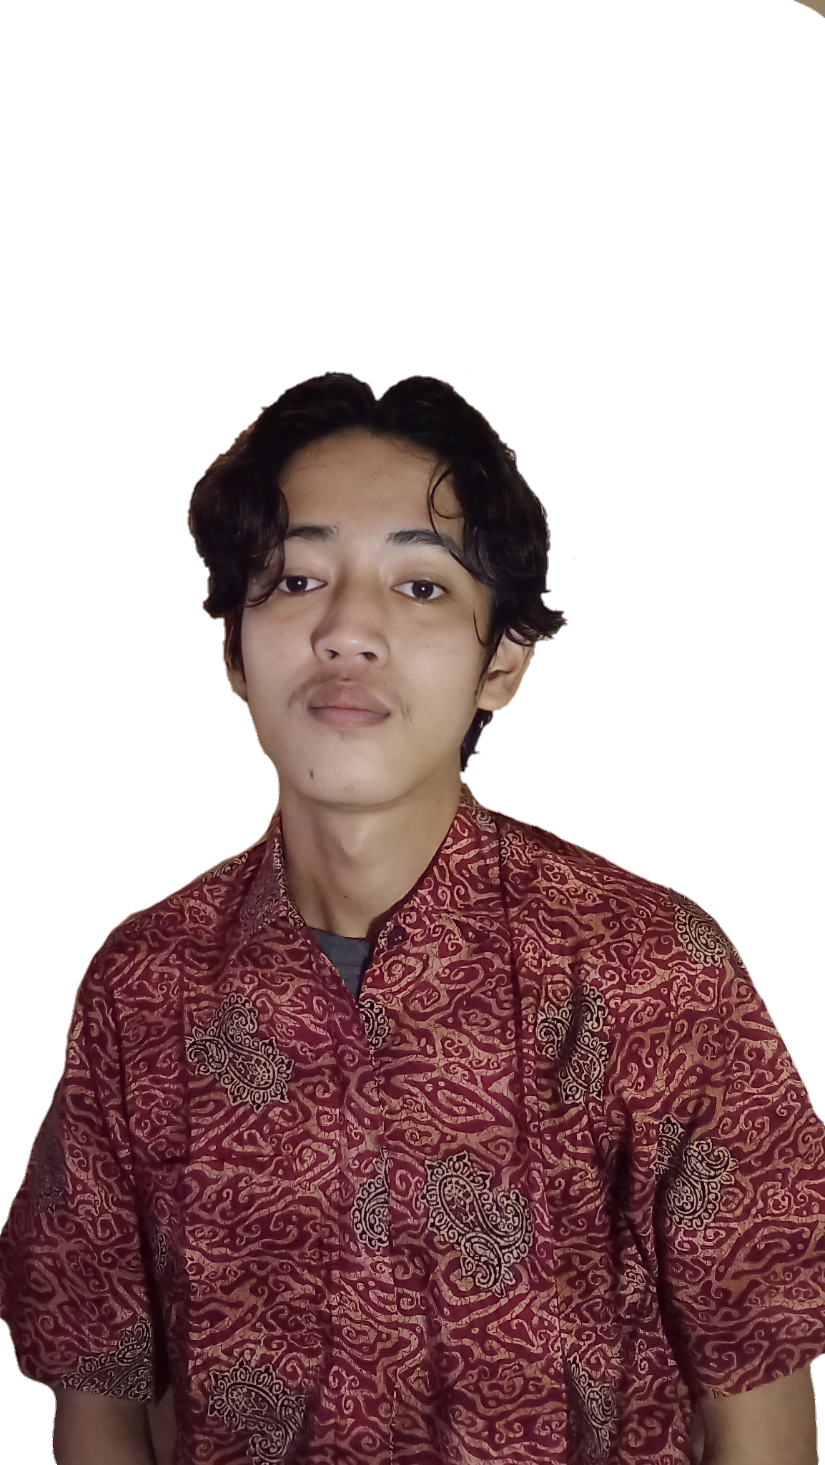
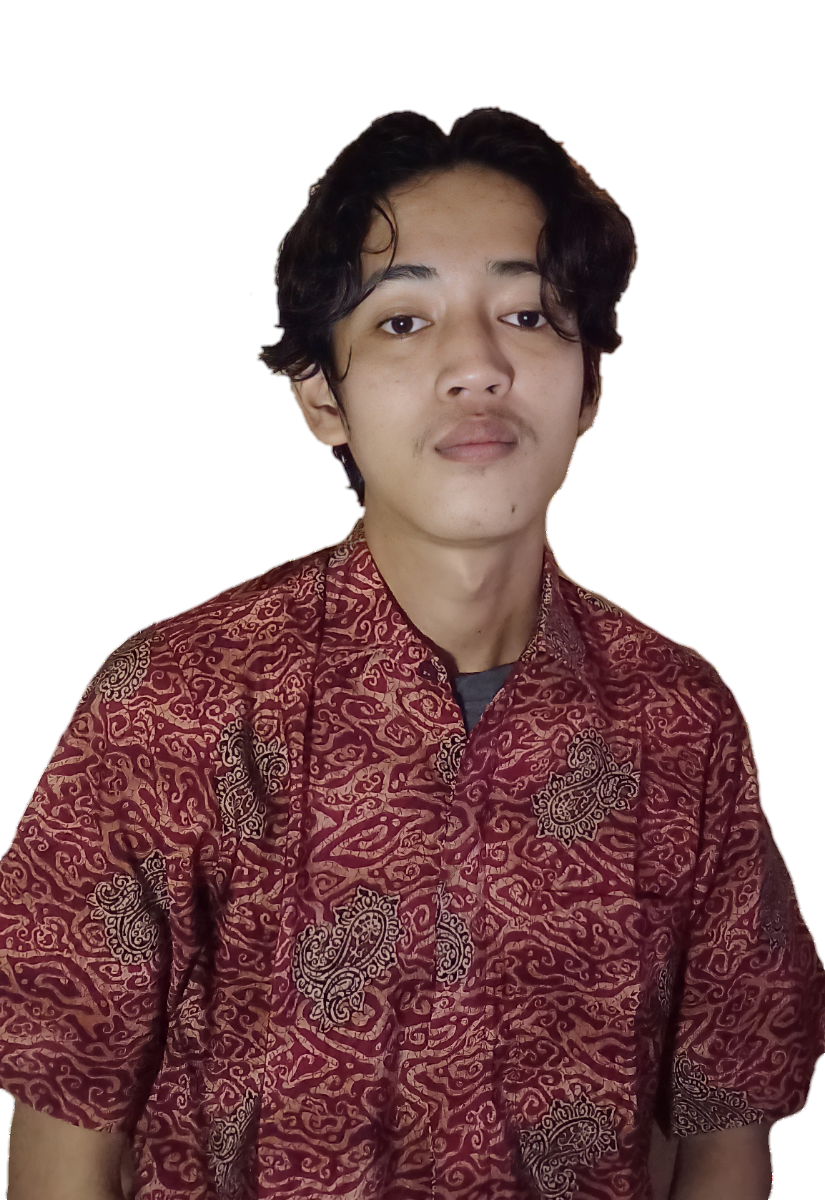
third commit

diff --git a/index.html b/index.html
@@ -106,7 +106,7 @@
                                 129.362C2.45775 97.8511 -7.48481 59.1033 6.67581 34.5279C20.9871 10.1032 59.7028 
                                 -0.149132 97.9666 0.00163737C136.23 0.303176 174.193 10.857 190.312 36.4879Z"/>
 
-                                <image class="home__blob-img" x='-92' y='-33' href="assets/img/profil.png"/>
+                                <image class="home__blob-img" x='-12' y='-3' href="assets/img/profil.png"/>
                             </g>
                         </svg>
                     </div>
@@ -137,7 +137,7 @@
             <span class="section__subtitle">My Introduction</span>
 
             <div class="about__container container grid">
-                <img src="assets/img/about.png" alt="" class="about__img">
+                <img src="assets/img/about.jpg" alt="" class="about__img">
 
                 <div class="about__data">
                     <p class="about__description">I am an individual who has enthusiasm and willingness to learn new things. Able in graphic design and website development. I can also operate Adobe Photoshop, Figma, and Canva. In this case, it has succeeded in producing social media content design and organization, election, and registration websites.</p>
@@ -160,7 +160,7 @@
                     </div>
 
                     <div class="about__buttons">
-                        <a download="" href="assets/pdf/CV Fadhil Anugrah Darwan" class="button button--flex">
+                        <a download="" href="assets/pdf/CV Fadhil Anugrah Darwan.pdf" class="button button--flex">
                             Download CV<i class="uil uil-download-alt button__icon"></i>
                         </a>
                     </div>
@@ -1511,7 +1511,7 @@
                         </a>
                     </div>
 
-                    <img src="assets/img/about.png" alt="" class="project__img">
+                    <img src="assets/img/about.jpg" alt="" class="project__img">
                 </div>
             </div>
         </section>

diff --git a/assets/css/styles.css b/assets/css/styles.css
@@ -302,7 +302,7 @@ img{
 }
 
 .home__blob-img{
-    width: 390px;
+    width: 200px;
 }
 
 .home__data{
